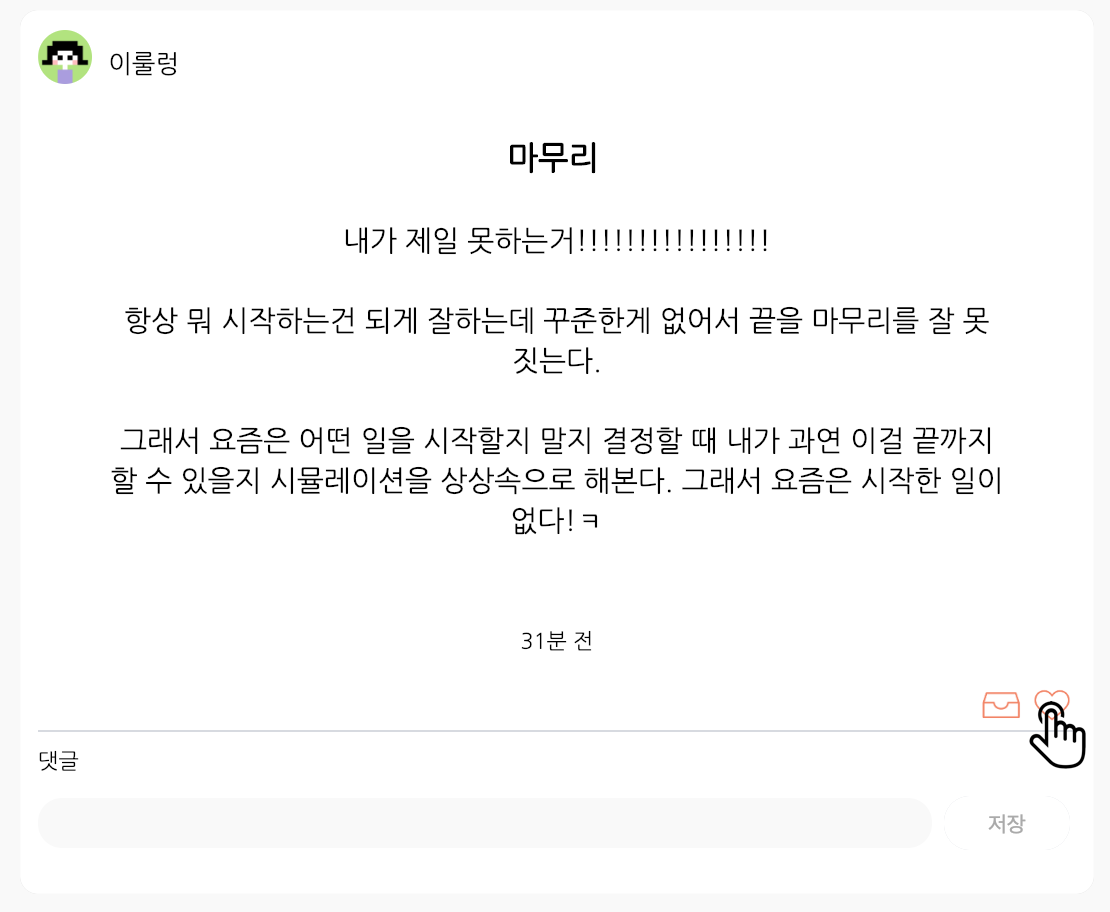
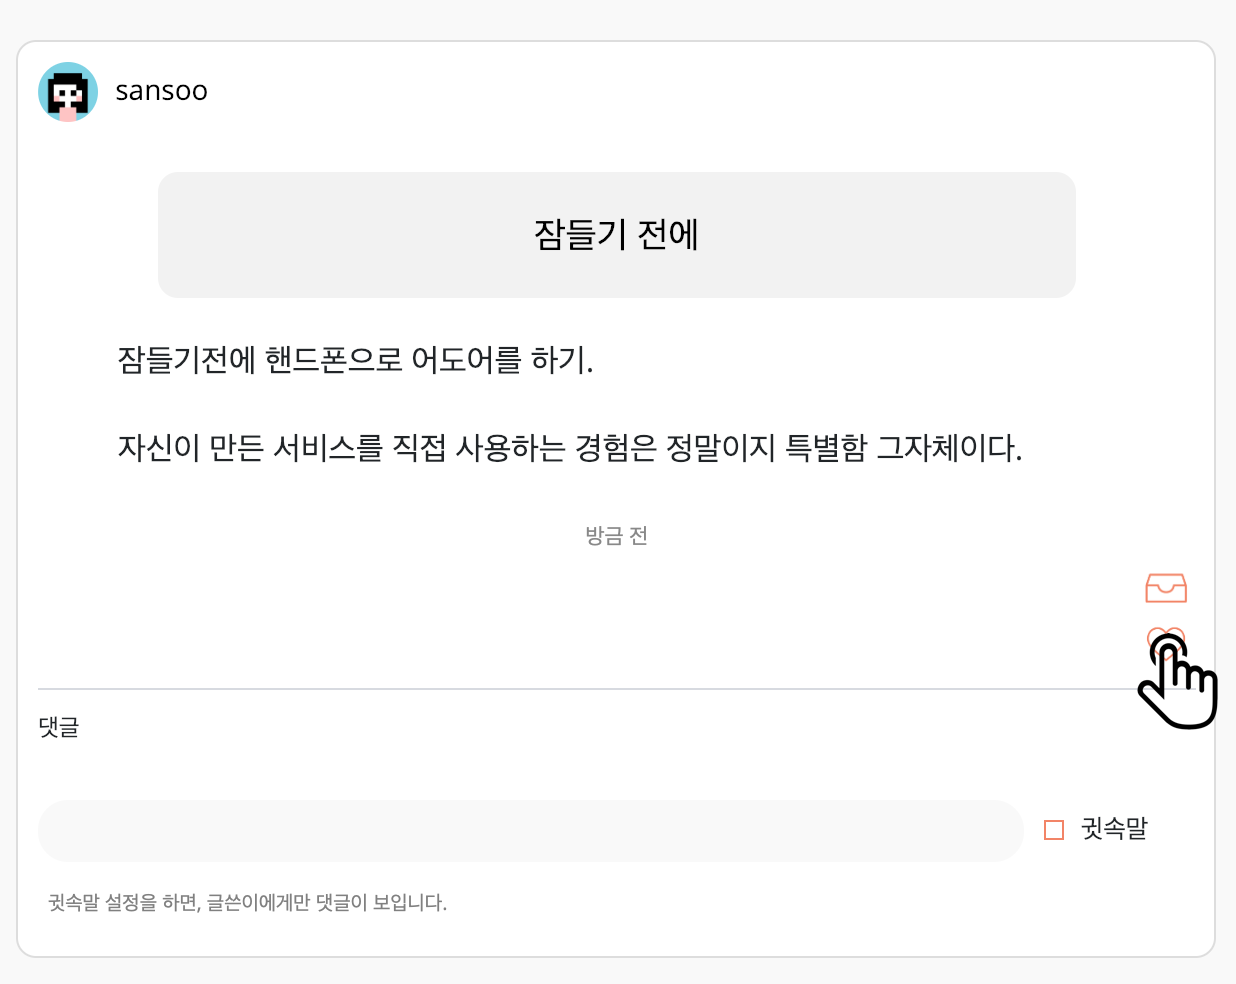
intro page

diff --git a/app/assets/stylesheets/1/intro.scss b/app/assets/stylesheets/1/intro.scss
@@ -1,11 +1,19 @@
 .intro-tc-el {
-    font-weight: bold;
-    font-size: 15px;
+    font-size: 14px;
     color: black;
     &:hover {
         color: #F48462;
      }
-     line-height: 30px;
+     line-height: 10px;
+}
+
+.intro-tc-container {
+    background-color: rgb(241, 241, 241);
+    border-radius: 10px;
+    text-align: left;
+    padding: 20px;
+    padding-top: 10px;
+    padding-right: 10px;
 }
 
 // .intro-tc-el.active {
@@ -14,13 +22,11 @@
 //한 페이지 내에서는 (scroll에 따라) active_link_to 안됨
 
 .intro-tc {
-    background-color: rgb(241, 241, 241);
+    
     position: fixed;
     right: 50px;
-    top: 200px;
-    padding: 20px;
-    border-radius: 10px;
-    text-align: left;
+    top: 150px;
+    
 }
 
 .intro-title {
@@ -75,7 +81,7 @@
 .intro-accent {
     //font-weight: bold;
     //color: rgb(245, 154, 126);
-    font-size: 18px;
+    font-size: 16px;
     text-decoration: none;
     border-bottom: 1px solid #F48462;
     padding-bottom: 2px;

diff --git a/db/seeds.rb b/db/seeds.rb
@@ -8,6 +8,7 @@
 
 if Rails.env.development?
     # 1: 백산수, 2: 마틸다, 3:율로몬, 4: 잡동사니, 5: 이룰렁, 6: 누구게, 7: 메롱
+    Question.create(content: "잠들기 전에", selected_date: DateTime.now())
     if User.where(email: "prism@snu.com").empty?
         User.create(email: "prism@snu.com", password: "prism-snu", username: "sansoo")
     end
